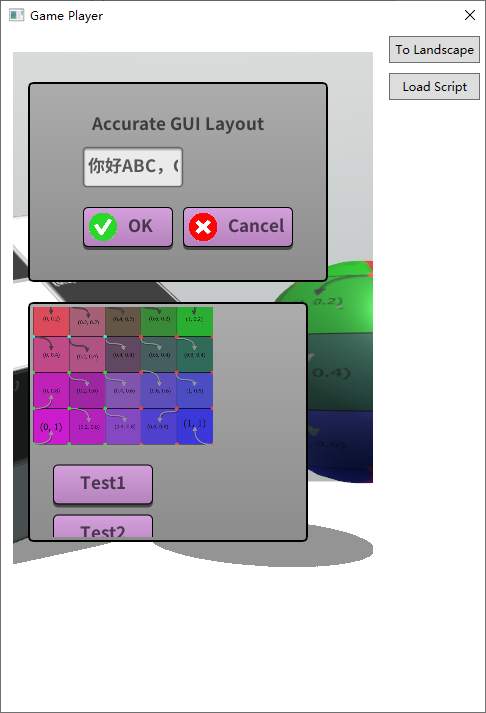
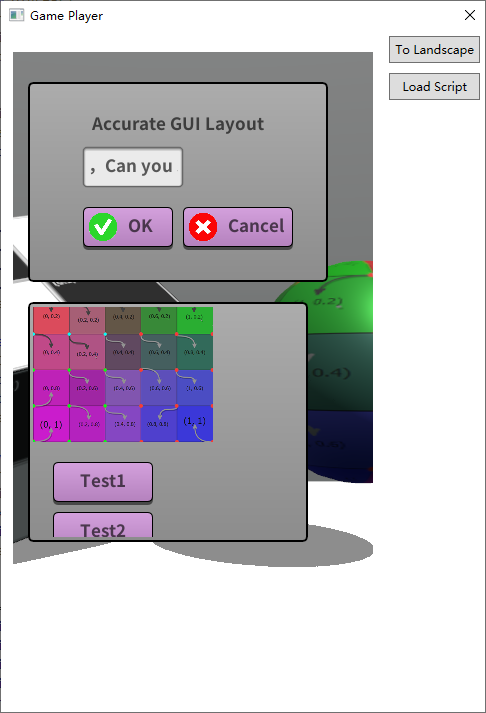
Adjust irradiance intensity

Changed region(s): [[0.0, 0.0617, 0.7716, 0.7714], [0.1852, 0.216, 0.3704, 0.2468], [0.6173, 0.648, 0.7099, 0.6788]]

diff --git a/game/bundle_gui_demo.js b/game/bundle_gui_demo.js
@@ -4410,13 +4410,13 @@ async function init(width, height)
     scene.add(directional_light);
     
     bg = new HemisphereBackground();   
-    bg.setSkyColor(1.0, 1.0, 1.0);
-    bg.setGroundColor(0.02843, 0.07819, 0.07819);
+    bg.setSkyColor(0.318, 0.318, 0.318);
+    bg.setGroundColor(0.01, 0.025, 0.025);
     scene.background = bg;
     
     envLight = new HemisphereLight();
-    envLight.setSkyColor(1.0, 1.0, 1.0);
-    envLight.setGroundColor(0.02843, 0.07819, 0.07819);
+    envLight.setSkyColor(0.318, 0.318, 0.318);
+    envLight.setGroundColor(0.01, 0.025, 0.025);
         
     envLight.diffuseThresh = 0.2*0.5;
     envLight.diffuseHigh = 0.8 *0.5;

diff --git a/game/gui_demo.js b/game/gui_demo.js
@@ -177,13 +177,13 @@ async function init(width, height)
     scene.add(directional_light);
     
     bg = new HemisphereBackground();   
-    bg.setSkyColor(1.0, 1.0, 1.0);
-    bg.setGroundColor(0.02843, 0.07819, 0.07819);
+    bg.setSkyColor(0.318, 0.318, 0.318);
+    bg.setGroundColor(0.01, 0.025, 0.025);
     scene.background = bg;
     
     envLight = new HemisphereLight();
-    envLight.setSkyColor(1.0, 1.0, 1.0);
-    envLight.setGroundColor(0.02843, 0.07819, 0.07819);
+    envLight.setSkyColor(0.318, 0.318, 0.318);
+    envLight.setGroundColor(0.01, 0.025, 0.025);
         
     envLight.diffuseThresh = 0.2*0.5;
     envLight.diffuseHigh = 0.8 *0.5;

diff --git a/game/bundle_game.js b/game/bundle_game.js
@@ -4280,13 +4280,13 @@ function init(width, height) {
     scene.add(directional_light);
     
     bg = new HemisphereBackground();   
-    bg.setSkyColor(1.0, 1.0, 1.0);
-    bg.setGroundColor(0.02843, 0.07819, 0.07819);
+    bg.setSkyColor(0.318, 0.318, 0.318);
+    bg.setGroundColor(0.01, 0.025, 0.025);
     scene.background = bg;
     
     envLight = new HemisphereLight();
-    envLight.setSkyColor(1.0, 1.0, 1.0);
-    envLight.setGroundColor(0.02843, 0.07819, 0.07819);
+    envLight.setSkyColor(0.318, 0.318, 0.318);
+    envLight.setGroundColor(0.01, 0.025, 0.025);
         
     envLight.diffuseThresh = 0.2*0.5;
     envLight.diffuseHigh = 0.8 *0.5;

diff --git a/game/game.js b/game/game.js
@@ -25,13 +25,13 @@ function init(width, height) {
     scene.add(directional_light);
     
     bg = new HemisphereBackground();   
-    bg.setSkyColor(1.0, 1.0, 1.0);
-    bg.setGroundColor(0.02843, 0.07819, 0.07819);
+    bg.setSkyColor(0.318, 0.318, 0.318);
+    bg.setGroundColor(0.01, 0.025, 0.025);
     scene.background = bg;
     
     envLight = new HemisphereLight();
-    envLight.setSkyColor(1.0, 1.0, 1.0);
-    envLight.setGroundColor(0.02843, 0.07819, 0.07819);
+    envLight.setSkyColor(0.318, 0.318, 0.318);
+    envLight.setGroundColor(0.01, 0.025, 0.025);
         
     envLight.diffuseThresh = 0.2*0.5;
     envLight.diffuseHigh = 0.8 *0.5;

diff --git a/game/bundle_game2.js b/game/bundle_game2.js
@@ -4347,13 +4347,13 @@ function init(width, height) {
     scene.add(directional_light2);
     
     bg = new HemisphereBackground();   
-    bg.setSkyColor(1.0, 1.0, 1.0);
-    bg.setGroundColor(0.02843, 0.07819, 0.07819);
+    bg.setSkyColor(0.318, 0.318, 0.318);
+    bg.setGroundColor(0.01, 0.025, 0.025);
     scene.background = bg;
     
     envLight = new HemisphereLight();
-    envLight.setSkyColor(1.0, 1.0, 1.0);
-    envLight.setGroundColor(0.02843, 0.07819, 0.07819);
+    envLight.setSkyColor(0.318, 0.318, 0.318);
+    envLight.setGroundColor(0.01, 0.025, 0.025);
     scene.indirectLight = envLight;
 
     camera.setPosition(0.0, 0.0, 20.0);

diff --git a/game/game2.js b/game/game2.js
@@ -41,13 +41,13 @@ function init(width, height) {
     scene.add(directional_light2);
     
     bg = new HemisphereBackground();   
-    bg.setSkyColor(1.0, 1.0, 1.0);
-    bg.setGroundColor(0.02843, 0.07819, 0.07819);
+    bg.setSkyColor(0.318, 0.318, 0.318);
+    bg.setGroundColor(0.01, 0.025, 0.025);
     scene.background = bg;
     
     envLight = new HemisphereLight();
-    envLight.setSkyColor(1.0, 1.0, 1.0);
-    envLight.setGroundColor(0.02843, 0.07819, 0.07819);
+    envLight.setSkyColor(0.318, 0.318, 0.318);
+    envLight.setGroundColor(0.01, 0.025, 0.025);
     scene.indirectLight = envLight;
 
     camera.setPosition(0.0, 0.0, 20.0);

diff --git a/ThreeEngine/lights/EnvironmentMapCreator.cpp b/ThreeEngine/lights/EnvironmentMapCreator.cpp
@@ -73,6 +73,31 @@ inline void SHEval3(const float fX, const float fY, const float fZ, float* pSH)
 
 #endif
 
+
+/*glm::vec4 shGetIrradianceAt(const glm::vec3& normal, const glm::vec4 shCoefficients[9]) {
+
+	// normal is assumed to have unit length
+
+	float x = normal.x, y = normal.y, z = normal.z;
+
+	// band 0
+	glm::vec4 result = shCoefficients[0] * 0.886227f;
+
+	// band 1
+	result += shCoefficients[1] * 2.0f * 0.511664f * y;
+	result += shCoefficients[2] * 2.0f * 0.511664f * z;
+	result += shCoefficients[3] * 2.0f * 0.511664f * x;
+
+	// band 2
+	result += shCoefficients[4] * 2.0f * 0.429043f * x * y;
+	result += shCoefficients[5] * 2.0f * 0.429043f * y * z;
+	result += shCoefficients[6] * (0.743125f * z * z - 0.247708f);
+	result += shCoefficients[7] * 2.0f * 0.429043f * x * z;
+	result += shCoefficients[8] * 0.429043f * (x * x - y * y);
+
+	return result;
+}*/
+
 static std::string g_compute_downsample =
 R"(#version 430
 layout (location = 0) uniform samplerCube tex_hi_res;
@@ -605,7 +630,7 @@ void EnvironmentMapCreator::Create(const GLCubemap * cubemap, EnvironmentMap * e
 
 	float pixelSize = 2.0f / 128.0f;
 	float totalWeight = 0.0f;
-	memset(envMap->shCoefficients, 0, sizeof(glm::vec4) * 9);
+	memset(envMap->shCoefficients, 0, sizeof(glm::vec4) * 9);	
 
 	for (int i = 0; i < 6; i++)
 	{
@@ -681,8 +706,8 @@ void EnvironmentMapCreator::Create(const GLCubemap * cubemap, EnvironmentMap * e
 				}
 			}
 #endif
-			}
 		}
+	}
 
 	float norm = (4.0f * PI) / totalWeight;
 
@@ -690,6 +715,68 @@ void EnvironmentMapCreator::Create(const GLCubemap * cubemap, EnvironmentMap * e
 	{
 		envMap->shCoefficients[k] *= norm;
 	}
+	
+	// average check
+	/*totalWeight = 0.0f;
+	glm::vec4 ave1(0.0f);
+	glm::vec4 ave2(0.0f);
+	for (int i = 0; i < 6; i++)
+	{
+		std::vector<uint8_t>& face = faces[i];
+
+		for (int j = 0; j < 128 * 128; j ++)
+		{
+			int pixelIndex = j;
+
+			float col = -1.0f + ((float)(pixelIndex % 128) + 0.5f) * pixelSize;
+			float row = -1.0f + ((float)(pixelIndex / 128) + 0.5f) * pixelSize;
+			glm::vec3 coord;
+			switch (i)
+			{
+			case 0:
+				coord = { 1.0f, -row, -col };
+				break;
+			case 1:
+				coord = { -1.0f, -row, col };
+				break;
+			case 2:
+				coord = { col, 1, row };
+				break;
+			case 3:
+				coord = { col, -1, -row };
+				break;
+			case 4:
+				coord = { col, -row, 1 };
+				break;
+			case 5:
+				coord = { -col, -row, -1 };
+				break;
+			}
+			float lengthSq = glm::dot(coord, coord);
+			float weight = 4.0f / (sqrtf(lengthSq) * lengthSq);
+			totalWeight += weight;
+			glm::vec3 dir = glm::normalize(coord);
+
+			const uint8_t* pixel = &face[(size_t)pixelIndex * 4];
+			glm::vec4 color1 = { (float)pixel[0] / 255.0f, (float)pixel[1] / 255.0f, (float)pixel[2] / 255.0f, 0.0f };
+			ave1 += color1 * weight;
+
+			glm::vec4 color2 = shGetIrradianceAt(dir, envMap->shCoefficients);
+			ave2 += color2 * weight;
+
+		
+		}
+	}
+
+	ave1 /= totalWeight;
+	ave2 /= totalWeight;
+
+	printf("%f %f %f\n", ave1[0], ave1[1], ave1[2]);
+	printf("%f %f %f\n", ave2[0], ave2[1], ave2[2]);
+	printf("%f %f %f\n", ave2[0]/ave1[0], ave2[1]/ave1[1], ave2[2]/ave1[2]);
+
+	glm::vec4 ave3 = envMap->shCoefficients[0] / (0.2820947917738781f * (4.0f * (float)PI));
+	printf("%f %f %f\n", ave3[0], ave3[1], ave3[2]);*/
 
 }
 

diff --git a/ThreeEngine/renderers/routines/StandardRoutine.cpp b/ThreeEngine/renderers/routines/StandardRoutine.cpp
@@ -132,6 +132,7 @@ struct IncidentLight {
 };
 
 #define EPSILON 1e-6
+#define PI 3.14159265359
 #define RECIPROCAL_PI 0.3183098861837907
 
 #ifndef saturate
@@ -702,10 +703,10 @@ void main()
 		vec3 irradiance = shGetIrradianceAt(norm, uSHCoefficients);		
 		vec3 radiance = GetReflectionAt(reflectVec, uReflectionMap, material.roughness);
 #elif HAS_AMBIENT_LIGHT
-		vec3 irradiance = uAmbientColor.xyz;
-		vec3 radiance = irradiance;
+		vec3 irradiance = uAmbientColor.xyz * PI;
+		vec3 radiance = uAmbientColor.xyz;
 #elif HAS_HEMISPHERE_LIGHT
-		vec3 irradiance = HemisphereColor(norm);
+		vec3 irradiance = HemisphereColor(norm) * PI;
 		vec3 radiance = HemisphereColor(reflectVec);
 #endif
 

diff --git a/docs/Features.md b/docs/Features.md
@@ -84,7 +84,7 @@ ColorBackground:
 
 ```js
 bg = new ColorBackground();
-bg.setColor(0.0, 0.52, 1.0);
+bg.setColor(0.26225, 0.51492, 0.67244);
 scene.background = bg;
 ```
 
@@ -92,8 +92,8 @@ HemisphereBackground:
 
 ```js
 bg = new HemisphereBackground();   
-bg.setSkyColor(1.0, 1.0, 1.0);
-bg.setGroundColor(0.02843, 0.07819, 0.07819);
+bg.setSkyColor(0.318, 0.318, 0.318);
+bg.setGroundColor(0.01, 0.025, 0.025);
 scene.background = bg;
 ```
 
@@ -169,7 +169,7 @@ For SimpleModel, first create by "[new](SimpleModel.html#simplemodel)". Then, ca
 GLTFModel:
 
 ```js
-model = gltfLoader.loadModelFromFile("../game/assets/models/RZYAS.glb");
+model = gltfLoader.loadModelFromFile("assets/models/RZYAS.glb");
 model.setPosition(0, -8, 0); 
 scene.add(model); 
 ```
@@ -221,8 +221,8 @@ HemisphereLight:
 
 ```js
 envLight = new HemisphereLight();
-envLight.setSkyColor(1.0, 1.0, 1.0);
-envLight.setGroundColor(0.02843, 0.07819, 0.07819);
+envLight.setSkyColor(0.318, 0.318, 0.318);
+envLight.setGroundColor(0.01, 0.025, 0.025);
 scene.indirectLight = envLight;
 ```
 
@@ -285,7 +285,7 @@ In order to have the animation clip being played to take effect, call [`GLTFMode
 The following code loads the Parrot model and starts the animation that comes with the model:
 
 ```js
-model = gltfLoader.loadModelFromFile("../game/assets/models/Parrot.glb");
+model = gltfLoader.loadModelFromFile("assets/models/Parrot.glb");
 model.playAnimation("KeyAction");
 ```
 
